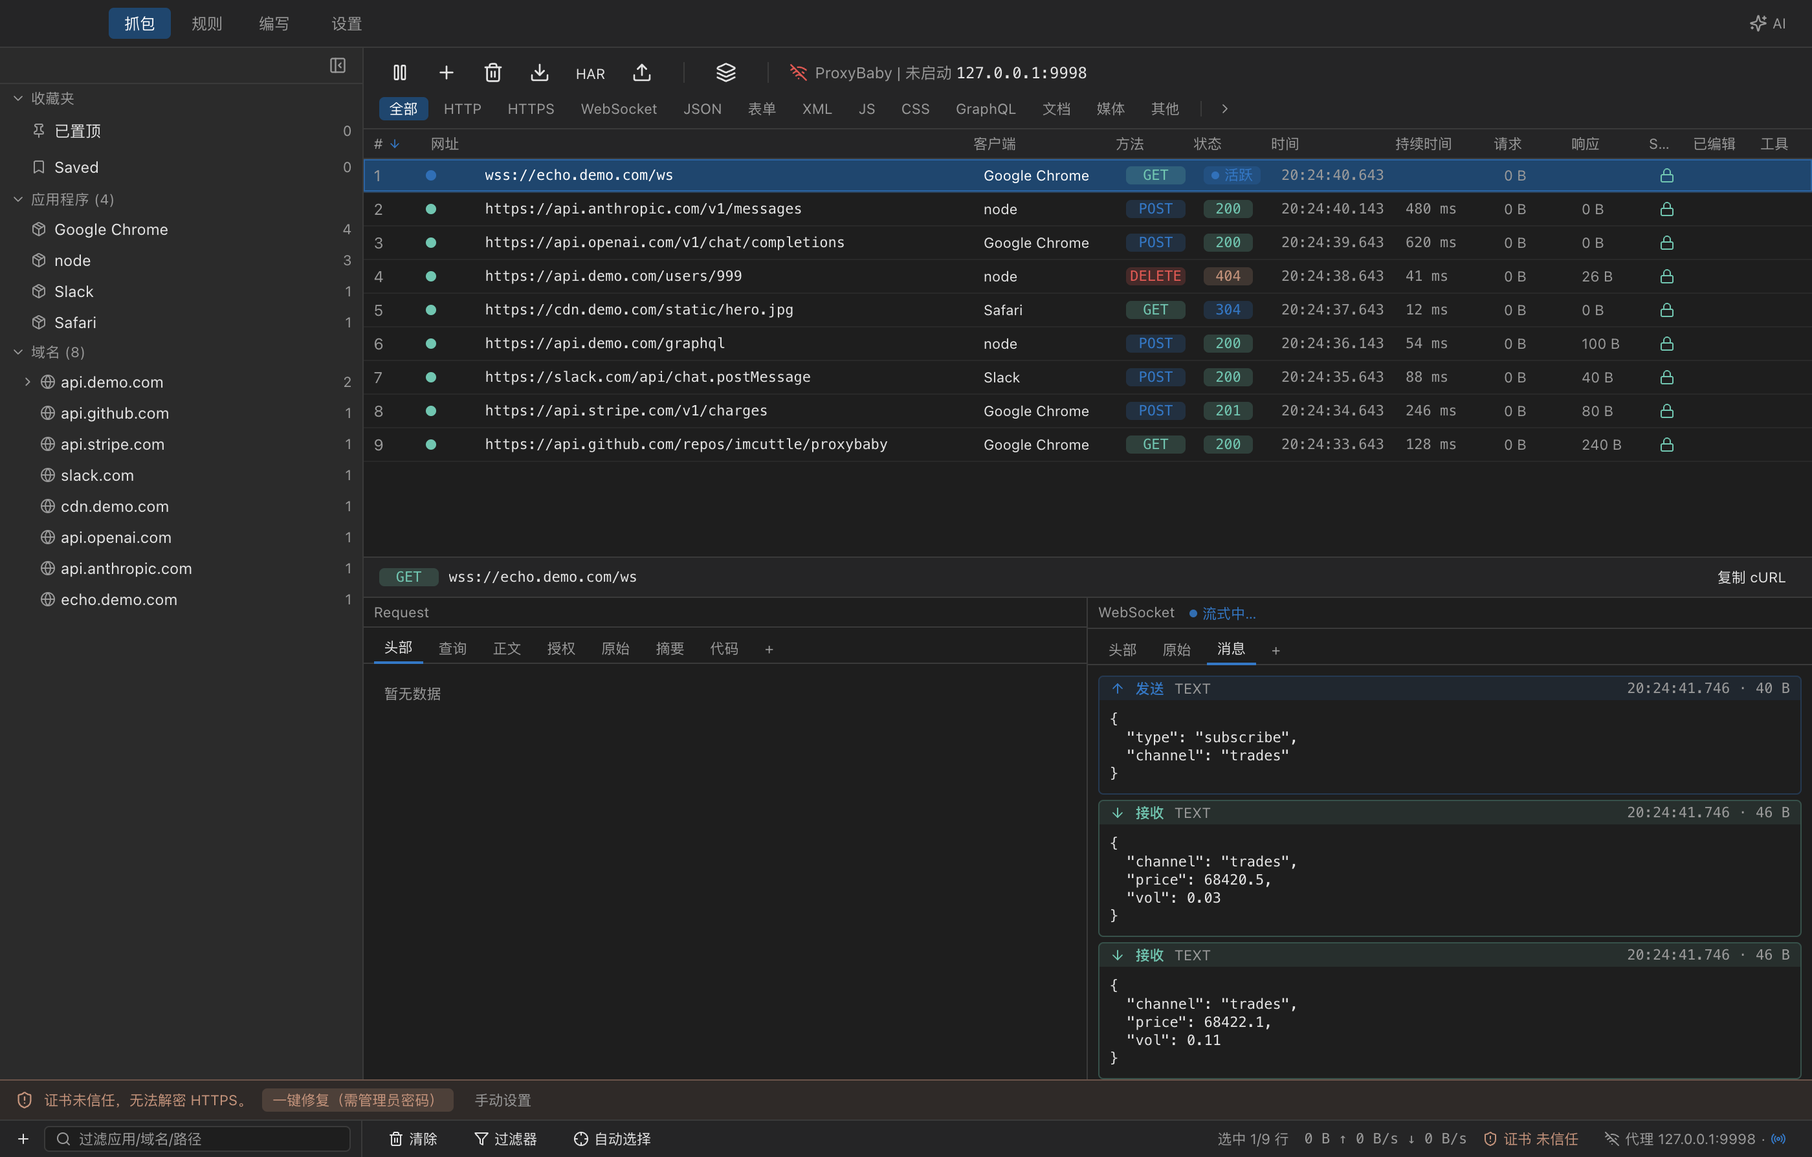
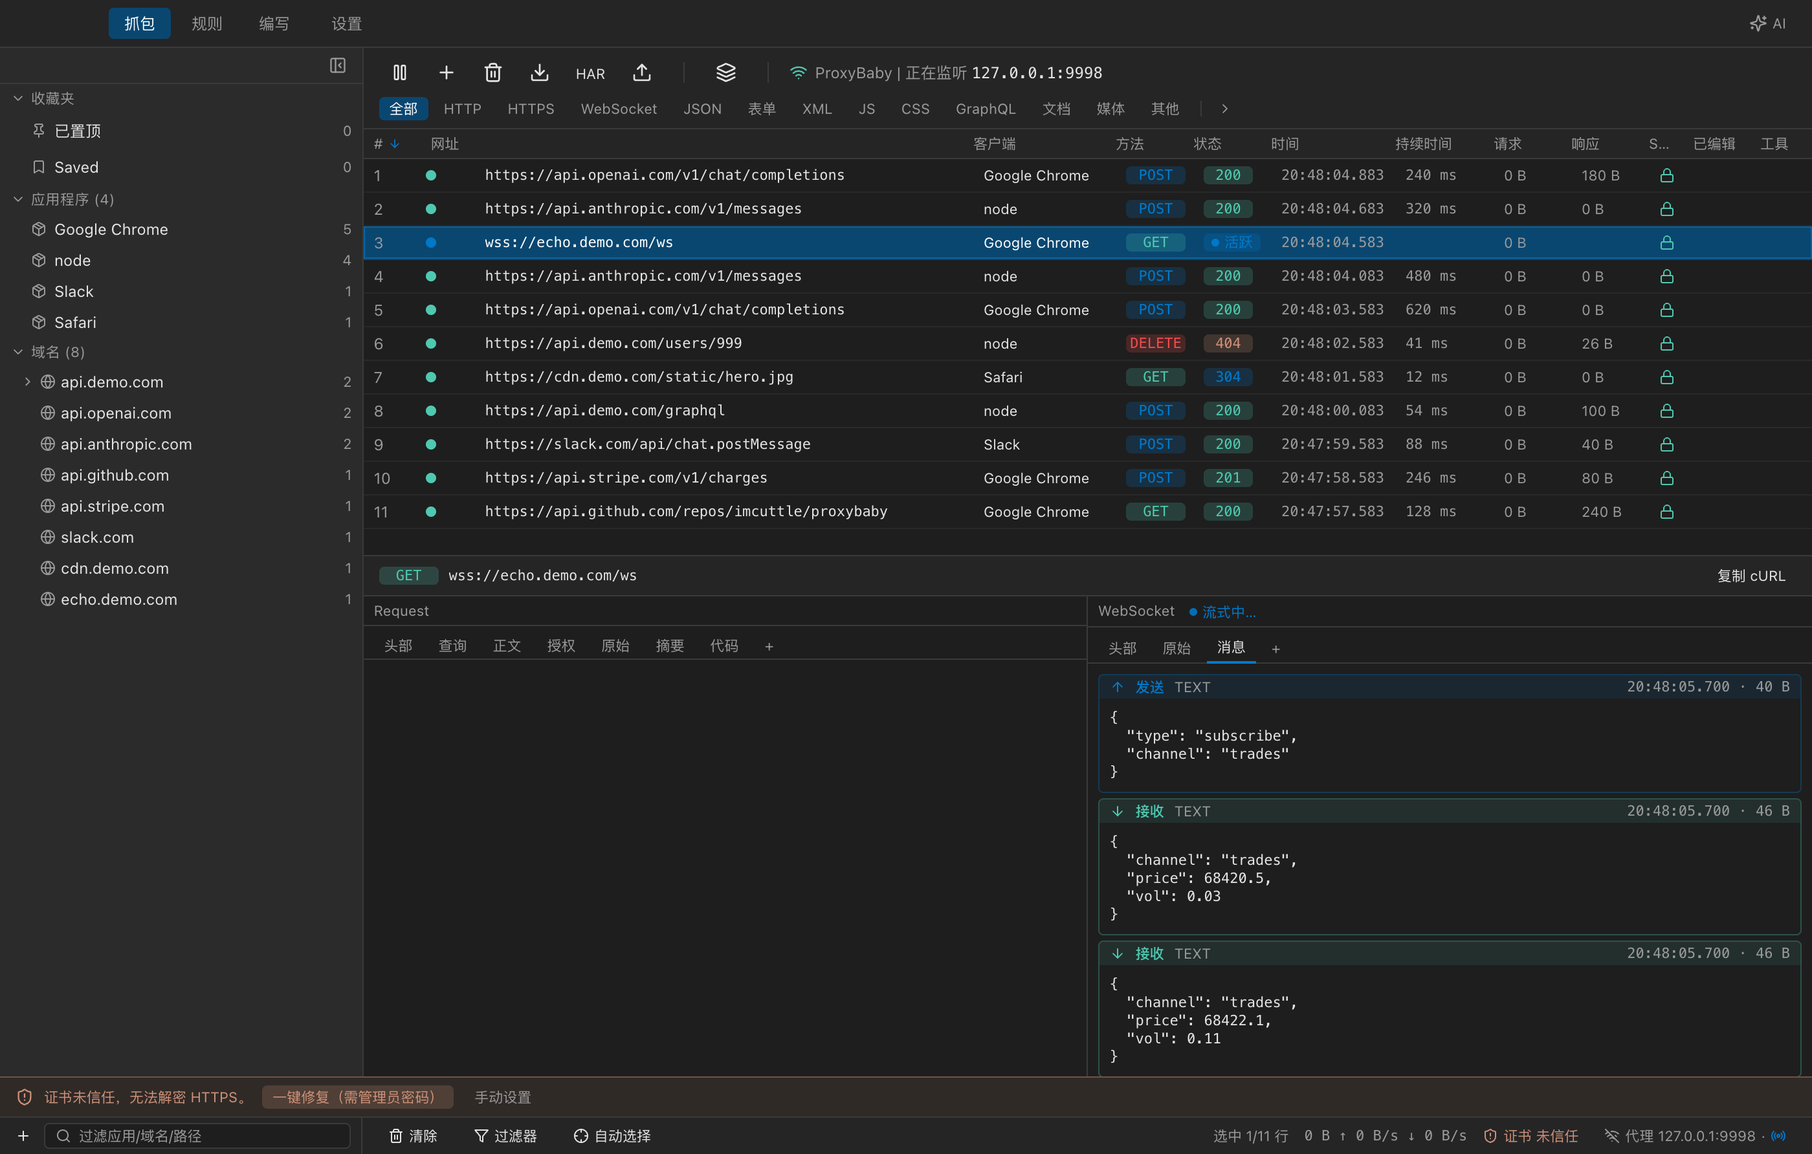
docs(readme): 重新生成截图 —— OpenAI/Anthropic chat 视图正确渲染 + 规则页有内容 + 新增 AI Sessions 截图
- screenshots.e2e.ts:
  - Anthropic 请求补 anthropic-version / x-api-key header 与 tools[].input_schema，让 detectProvider 稳定判为 anthropic
  - Anthropic SSE 帧的 event 字段独立填充（此前 event 都塞在 data 里，parser 拿不到导致响应侧空气泡）
  - 增加 thinking_delta / tool_use 完整帧，展示"思考过程 + 文本 + 工具调用"三块内容
  - OpenAI 与 Anthropic 各再注一条同 session 不同 turn 的 flow，供 AI Sessions 树呈现多轮
  - flows 上带 X-Session-Id / X-Root-Request-Id header
  - 通过 rulesAdd 注入 2 个示例规则集（mock / 本地开发劫持）
  - 切换到规则 tab 后自动点开第一个规则集让编辑器有内容
  - 新增 06-ai-sessions.png：openWindow('ai-session') 后在子窗口截图
- README.md: 图片布局改成 3 行 2 列（新增第 6 张 AI Sessions），更新图注；功能清单里补 AI Sessions 独立窗口说明

diff --git a/tests/e2e/screenshots.e2e.ts b/tests/e2e/screenshots.e2e.ts
@@ -120,12 +120,22 @@ test('inject flows + take screenshots', async () => {
       { event: 'flow:end', payload: { id: 'fx-6', durationMs: 41, status: 'completed' } },
     ],
   );
-  // AI 明星流：OpenAI 流式
+  // AI 明星流：OpenAI 流式（同时带 Session/Turn header 供 AI Sessions 视图聚合）
   await injectFlow(
     {
       id: 'fx-ai', status: 'completed', isTLS: true, sseFrames: [],
       app: { name: 'Google Chrome', pid: 501 },
-      request: { method: 'POST', url: 'https://api.openai.com/v1/chat/completions', host: 'api.openai.com', path: '/v1/chat/completions', scheme: 'https', httpVersion: '2.0', headers: [], bodySize: 0, startedAt: now - 2000, contentType: 'application/json', bodyText: JSON.stringify({ model: 'gpt-4o', stream: true, messages: [{ role: 'system', content: 'You are a helpful assistant.' }, { role: 'user', content: '用一句话解释什么是 MITM 代理' }] }) },
+      request: {
+        method: 'POST', url: 'https://api.openai.com/v1/chat/completions', host: 'api.openai.com',
+        path: '/v1/chat/completions', scheme: 'https', httpVersion: '2.0',
+        headers: [
+          { name: 'Authorization', value: 'Bearer sk-***' },
+          { name: 'X-Session-Id', value: 'sess-chat-openai-001' },
+          { name: 'X-Root-Request-Id', value: 'req-openai-t1' },
+        ],
+        bodySize: 0, startedAt: now - 2000, contentType: 'application/json',
+        bodyText: JSON.stringify({ model: 'gpt-4o', stream: true, messages: [{ role: 'system', content: 'You are a helpful assistant.' }, { role: 'user', content: '用一句话解释什么是 MITM 代理' }] }),
+      },
     },
     [
       { event: 'flow:response-headers', payload: { id: 'fx-ai', response: { status: 200, statusText: 'OK', httpVersion: '2.0', headers: [{ name: 'Content-Type', value: 'text/event-stream' }], bodySize: 0, isSSE: true, contentType: 'text/event-stream' } } },
@@ -134,19 +144,50 @@ test('inject flows + take screenshots', async () => {
       { event: 'flow:end', payload: { id: 'fx-ai', durationMs: 620, status: 'completed' } },
     ],
   );
-  // Anthropic 带 tool_use
+  // Anthropic 带 tool_use（headers 里带 anthropic-version 让 detectProvider 稳定识别）
   await injectFlow(
     {
       id: 'fx-anth', status: 'completed', isTLS: true, sseFrames: [],
       app: { name: 'node', pid: 302 },
-      request: { method: 'POST', url: 'https://api.anthropic.com/v1/messages', host: 'api.anthropic.com', path: '/v1/messages', scheme: 'https', httpVersion: '2.0', headers: [], bodySize: 0, startedAt: now - 1500, contentType: 'application/json', bodyText: JSON.stringify({ model: 'claude-3-5-sonnet', messages: [{ role: 'user', content: '帮我查一下今天北京天气' }] }) },
+      request: {
+        method: 'POST', url: 'https://api.anthropic.com/v1/messages', host: 'api.anthropic.com',
+        path: '/v1/messages', scheme: 'https', httpVersion: '2.0',
+        headers: [
+          { name: 'anthropic-version', value: '2023-06-01' },
+          { name: 'x-api-key', value: 'sk-ant-***' },
+          { name: 'X-Session-Id', value: 'sess-chat-anth-42' },
+          { name: 'X-Root-Request-Id', value: 'req-anth-t1' },
+        ],
+        bodySize: 0, startedAt: now - 1500, contentType: 'application/json',
+        bodyText: JSON.stringify({
+          model: 'claude-3-5-sonnet-20241022',
+          max_tokens: 1024,
+          system: '你是一个乐于助人的中文助手。',
+          tools: [
+            {
+              name: 'get_weather',
+              description: '查询指定城市的当前天气',
+              input_schema: {
+                type: 'object',
+                properties: { city: { type: 'string', description: '城市名称' } },
+                required: ['city'],
+              },
+            },
+          ],
+          messages: [{ role: 'user', content: '帮我查一下今天北京天气' }],
+        }),
+      },
     },
     [
       { event: 'flow:response-headers', payload: { id: 'fx-anth', response: { status: 200, statusText: 'OK', httpVersion: '2.0', headers: [{ name: 'Content-Type', value: 'text/event-stream' }], bodySize: 0, isSSE: true, contentType: 'text/event-stream' } } },
-      { event: 'flow:sse-frame', payload: { id: 'fx-anth', frame: { data: `event: content_block_start\ndata: ${JSON.stringify({ type: 'content_block_start', index: 0, content_block: { type: 'text', text: '' } })}`, raw: '', receivedAt: Date.now() } } },
-      { event: 'flow:sse-frame', payload: { id: 'fx-anth', frame: { data: `event: content_block_delta\ndata: ${JSON.stringify({ type: 'content_block_delta', index: 0, delta: { type: 'text_delta', text: '好的，我调用天气工具查询。' } })}`, raw: '', receivedAt: Date.now() } } },
-      { event: 'flow:sse-frame', payload: { id: 'fx-anth', frame: { data: `event: content_block_start\ndata: ${JSON.stringify({ type: 'content_block_start', index: 1, content_block: { type: 'tool_use', id: 'toolu_1', name: 'get_weather', input: {} } })}`, raw: '', receivedAt: Date.now() } } },
-      { event: 'flow:sse-frame', payload: { id: 'fx-anth', frame: { data: `event: content_block_delta\ndata: ${JSON.stringify({ type: 'content_block_delta', index: 1, delta: { type: 'input_json_delta', partial_json: '{"city":"Beijing"}' } })}`, raw: '', receivedAt: Date.now() } } },
+      { event: 'flow:sse-frame', payload: { id: 'fx-anth', frame: { event: 'message_start', data: JSON.stringify({ type: 'message_start', message: { id: 'msg_01', model: 'claude-3-5-sonnet-20241022', role: 'assistant', content: [], usage: { input_tokens: 78, output_tokens: 0 } } }), raw: '', receivedAt: Date.now() } } },
+      { event: 'flow:sse-frame', payload: { id: 'fx-anth', frame: { event: 'content_block_start', data: JSON.stringify({ type: 'content_block_start', index: 0, content_block: { type: 'thinking', thinking: '' } }), raw: '', receivedAt: Date.now() } } },
+      { event: 'flow:sse-frame', payload: { id: 'fx-anth', frame: { event: 'content_block_delta', data: JSON.stringify({ type: 'content_block_delta', index: 0, delta: { type: 'thinking_delta', thinking: '用户想查北京天气，我需要调用 get_weather 工具。' } }), raw: '', receivedAt: Date.now() } } },
+      { event: 'flow:sse-frame', payload: { id: 'fx-anth', frame: { event: 'content_block_start', data: JSON.stringify({ type: 'content_block_start', index: 1, content_block: { type: 'text', text: '' } }), raw: '', receivedAt: Date.now() } } },
+      { event: 'flow:sse-frame', payload: { id: 'fx-anth', frame: { event: 'content_block_delta', data: JSON.stringify({ type: 'content_block_delta', index: 1, delta: { type: 'text_delta', text: '好的，我调用天气工具帮你查一下北京当前天气。' } }), raw: '', receivedAt: Date.now() } } },
+      { event: 'flow:sse-frame', payload: { id: 'fx-anth', frame: { event: 'content_block_start', data: JSON.stringify({ type: 'content_block_start', index: 2, content_block: { type: 'tool_use', id: 'toolu_01ABC', name: 'get_weather', input: {} } }), raw: '', receivedAt: Date.now() } } },
+      { event: 'flow:sse-frame', payload: { id: 'fx-anth', frame: { event: 'content_block_delta', data: JSON.stringify({ type: 'content_block_delta', index: 2, delta: { type: 'input_json_delta', partial_json: '{"city":"Beijing"}' } }), raw: '', receivedAt: Date.now() } } },
+      { event: 'flow:sse-frame', payload: { id: 'fx-anth', frame: { event: 'message_delta', data: JSON.stringify({ type: 'message_delta', delta: { stop_reason: 'tool_use' }, usage: { output_tokens: 42 } }), raw: '', receivedAt: Date.now() } } },
       { event: 'flow:end', payload: { id: 'fx-anth', durationMs: 480, status: 'completed' } },
     ],
   );
@@ -164,6 +205,113 @@ test('inject flows + take screenshots', async () => {
     ],
   );
 
+  // 同一 Anthropic session 的第二轮：tool_result → 最终回复（供 AI Sessions 树展示多 turn）
+  await injectFlow(
+    {
+      id: 'fx-anth-2', status: 'completed', isTLS: true, sseFrames: [],
+      app: { name: 'node', pid: 302 },
+      request: {
+        method: 'POST', url: 'https://api.anthropic.com/v1/messages', host: 'api.anthropic.com',
+        path: '/v1/messages', scheme: 'https', httpVersion: '2.0',
+        headers: [
+          { name: 'anthropic-version', value: '2023-06-01' },
+          { name: 'x-api-key', value: 'sk-ant-***' },
+          { name: 'X-Session-Id', value: 'sess-chat-anth-42' },
+          { name: 'X-Root-Request-Id', value: 'req-anth-t2' },
+        ],
+        bodySize: 0, startedAt: now - 900, contentType: 'application/json',
+        bodyText: JSON.stringify({
+          model: 'claude-3-5-sonnet-20241022',
+          max_tokens: 1024,
+          system: '你是一个乐于助人的中文助手。',
+          messages: [
+            { role: 'user', content: '帮我查一下今天北京天气' },
+            {
+              role: 'assistant',
+              content: [
+                { type: 'text', text: '好的，我调用天气工具帮你查一下北京当前天气。' },
+                { type: 'tool_use', id: 'toolu_01ABC', name: 'get_weather', input: { city: 'Beijing' } },
+              ],
+            },
+            {
+              role: 'user',
+              content: [
+                { type: 'tool_result', tool_use_id: 'toolu_01ABC', content: '{"city":"Beijing","temp":24,"weather":"晴","humidity":45}' },
+              ],
+            },
+          ],
+        }),
+      },
+    },
+    [
+      { event: 'flow:response-headers', payload: { id: 'fx-anth-2', response: { status: 200, statusText: 'OK', httpVersion: '2.0', headers: [{ name: 'Content-Type', value: 'text/event-stream' }], bodySize: 0, isSSE: true, contentType: 'text/event-stream' } } },
+      { event: 'flow:sse-frame', payload: { id: 'fx-anth-2', frame: { event: 'content_block_start', data: JSON.stringify({ type: 'content_block_start', index: 0, content_block: { type: 'text', text: '' } }), raw: '', receivedAt: Date.now() } } },
+      { event: 'flow:sse-frame', payload: { id: 'fx-anth-2', frame: { event: 'content_block_delta', data: JSON.stringify({ type: 'content_block_delta', index: 0, delta: { type: 'text_delta', text: '北京今天晴，气温 24°C，湿度 45%，是个不错的出行天气。' } }), raw: '', receivedAt: Date.now() } } },
+      { event: 'flow:end', payload: { id: 'fx-anth-2', durationMs: 320, status: 'completed' } },
+    ],
+  );
+
+  // OpenAI 第二轮（同一 session，另一 root）：让 AI Sessions 树上出现 openai session 有 2 轮
+  await injectFlow(
+    {
+      id: 'fx-ai-2', status: 'completed', isTLS: true, sseFrames: [],
+      app: { name: 'Google Chrome', pid: 501 },
+      request: {
+        method: 'POST', url: 'https://api.openai.com/v1/chat/completions', host: 'api.openai.com',
+        path: '/v1/chat/completions', scheme: 'https', httpVersion: '2.0',
+        headers: [
+          { name: 'Authorization', value: 'Bearer sk-***' },
+          { name: 'X-Session-Id', value: 'sess-chat-openai-001' },
+          { name: 'X-Root-Request-Id', value: 'req-openai-t2' },
+        ],
+        bodySize: 0, startedAt: now - 700, contentType: 'application/json',
+        bodyText: JSON.stringify({ model: 'gpt-4o', stream: false, messages: [{ role: 'user', content: '再举一个抓包工具能解决的实际场景' }] }),
+      },
+    },
+    [
+      { event: 'flow:response-headers', payload: { id: 'fx-ai-2', response: { status: 200, statusText: 'OK', httpVersion: '2.0', headers: [{ name: 'Content-Type', value: 'application/json' }], bodySize: 0, isSSE: false, contentType: 'application/json' } } },
+      { event: 'flow:response-body', payload: { id: 'fx-ai-2', bodyText: JSON.stringify({
+        id: 'chatcmpl-2', model: 'gpt-4o',
+        choices: [{ index: 0, message: { role: 'assistant', content: '例如后端接口未就绪时，用 mock 规则先返回假数据，前端可并行开发。' }, finish_reason: 'stop' }],
+        usage: { prompt_tokens: 120, completion_tokens: 34, total_tokens: 154 },
+      }, null, 2), bodySize: 180 } },
+      { event: 'flow:end', payload: { id: 'fx-ai-2', durationMs: 240, status: 'completed' } },
+    ],
+  );
+
+  // 加两条示例 whistle 规则集，让规则页不空
+  await page.evaluate(async () => {
+    const api = (window as any).proxybaby;
+    await api.rulesAdd(
+      '开发环境 · mock',
+      [
+        '# 场景：后端接口未就绪，前端 mock 假数据',
+        'api.demo.com/users/list  mock://{"data":[{"id":1,"name":"Alice"},{"id":2,"name":"Bob"}]}',
+        '',
+        '# 场景：模拟登录态过期',
+        'api.demo.com/user/me     statusCode://401 resBody://{"error":"TOKEN_EXPIRED"}',
+        '',
+        '# 场景：给静态资源加延迟',
+        '*.demo.com/static/*      resDelay://500',
+      ].join('\n'),
+      true,
+    );
+    await api.rulesAdd(
+      '本地开发劫持',
+      [
+        '# 生产域名 → 本地开发',
+        'api.mycompany.com        host://127.0.0.1:3000',
+        '',
+        '# 加日志',
+        'api.mycompany.com/pay    log://pay-trace',
+        '',
+        '# 断点调试',
+        'api.mycompany.com/order  breakpoint://response',
+      ].join('\n'),
+      true,
+    );
+  });
+
   await page.waitForTimeout(600);
 
   // 1. 主界面
@@ -173,17 +321,35 @@ test('inject flows + take screenshots', async () => {
   await page.screenshot({ path: path.join(outDir, '01-main.png') });
   console.log('shot 01-main.png');
 
-  // 2. AI OpenAI
+  // 2. AI OpenAI —— 请求侧 + 响应侧都点开 chat view
   await page.locator('[data-testid="flow-row"][data-flow-id="fx-ai"]').click();
-  await page.getByRole('tab', { name: 'OpenAI' }).click().catch(() => {});
-  await page.waitForTimeout(300);
+  await page.waitForTimeout(200);
+  {
+    // 请求侧 chat
+    const reqTabs = page.getByRole('tab', { name: /openai/i });
+    if (await reqTabs.count()) await reqTabs.first().click().catch(() => {});
+    await page.waitForTimeout(150);
+    // 响应侧 chat（可能有 2 个 OpenAI tab：请求侧 + 响应侧；点第二个）
+    const allTabs = page.getByRole('tab', { name: /openai/i });
+    const cnt = await allTabs.count();
+    if (cnt > 1) await allTabs.nth(cnt - 1).click().catch(() => {});
+  }
+  await page.waitForTimeout(500);
   await page.screenshot({ path: path.join(outDir, '02-ai-openai.png') });
   console.log('shot 02-ai-openai.png');
 
   // 3. AI Anthropic
   await page.locator('[data-testid="flow-row"][data-flow-id="fx-anth"]').click();
-  await page.getByRole('tab', { name: 'Anthropic' }).click().catch(() => {});
-  await page.waitForTimeout(300);
+  await page.waitForTimeout(200);
+  {
+    const reqTabs = page.getByRole('tab', { name: /anthropic/i });
+    if (await reqTabs.count()) await reqTabs.first().click().catch(() => {});
+    await page.waitForTimeout(150);
+    const allTabs = page.getByRole('tab', { name: /anthropic/i });
+    const cnt = await allTabs.count();
+    if (cnt > 1) await allTabs.nth(cnt - 1).click().catch(() => {});
+  }
+  await page.waitForTimeout(500);
   await page.screenshot({ path: path.join(outDir, '03-ai-anthropic.png') });
   console.log('shot 03-ai-anthropic.png');
 
@@ -194,9 +360,54 @@ test('inject flows + take screenshots', async () => {
   await page.screenshot({ path: path.join(outDir, '04-websocket.png') });
   console.log('shot 04-websocket.png');
 
-  // 5. 规则页
+  // 5. 规则页 —— 打开规则 tab 并选中第一个规则集，让编辑器显示内容
   await page.getByRole('button', { name: '规则', exact: true }).click().catch(() => {});
+  await page.waitForTimeout(400);
+  // 点第一个规则集条目（RulesView 里规则集左栏是普通 button，用文本定位）
+  {
+    const item = page.getByText('开发环境 · mock', { exact: false }).first();
+    if (await item.count()) await item.click().catch(() => {});
+  }
   await page.waitForTimeout(500);
   await page.screenshot({ path: path.join(outDir, '05-rules.png') });
   console.log('shot 05-rules.png');
+
+  // 6. AI Sessions 独立子窗口
+  // 先切回抓包页面，再触发主窗口打开 ai-session 子窗口
+  await page.getByRole('button', { name: '抓包', exact: true }).click().catch(() => {});
+  await page.waitForTimeout(200);
+  await page.evaluate(async () => {
+    await (window as any).proxybaby.openWindow('ai-session', {
+      title: 'ProxyBaby · AI Sessions',
+      width: 1200,
+      height: 780,
+    });
+  });
+  // 等新窗口出现
+  let sessionWin: Page | null = null;
+  for (let i = 0; i < 40; i++) {
+    const wins = app.windows();
+    sessionWin = wins.find((w) => w !== page) || null;
+    if (sessionWin) break;
+    await page.waitForTimeout(150);
+  }
+  if (sessionWin) {
+    await sessionWin.waitForLoadState('domcontentloaded');
+    await sessionWin.waitForSelector('[data-testid="ai-session-window"]', { timeout: 8000 }).catch(() => {});
+    await sessionWin.waitForTimeout(600);
+    // 点选一个 request 以填充右侧预览
+    const req = sessionWin.locator('[data-testid="ai-request-row"], [data-testid="request-ref-row"]').first();
+    if (await req.count().catch(() => 0)) {
+      await req.click().catch(() => {});
+    } else {
+      // 兜底：点第一条 turn row
+      const turn = sessionWin.locator('[data-testid="ai-turn-row"]').first();
+      if (await turn.count()) await turn.click().catch(() => {});
+    }
+    await sessionWin.waitForTimeout(500);
+    await sessionWin.screenshot({ path: path.join(outDir, '06-ai-sessions.png') });
+    console.log('shot 06-ai-sessions.png');
+  } else {
+    console.log('⚠  AI Sessions window did not appear; skipping 06-ai-sessions.png');
+  }
 });

diff --git a/README.md b/README.md
@@ -52,13 +52,13 @@
 <img src="docs/screenshots/01-main.png" />
 </td>
 <td width="50%">
-<b>AI 会话美化（OpenAI）</b><br/>
+<b>AI 会话美化（OpenAI）· 请求 ↔ 响应 分栏</b><br/>
 <img src="docs/screenshots/02-ai-openai.png" />
 </td>
 </tr>
 <tr>
 <td width="50%">
-<b>AI 会话美化（Anthropic + tool_use）</b><br/>
+<b>AI 会话美化（Anthropic + thinking + tool_use）</b><br/>
 <img src="docs/screenshots/03-ai-anthropic.png" />
 </td>
 <td width="50%">
@@ -67,9 +67,13 @@
 </td>
 </tr>
 <tr>
-<td colspan="2">
+<td width="50%">
 <b>whistle 规则编辑器</b><br/>
 <img src="docs/screenshots/05-rules.png" />
+</td>
+<td width="50%">
+<b>AI Sessions —— Session/Turn/Request 三级视图</b><br/>
+<img src="docs/screenshots/06-ai-sessions.png" />
 </td>
 </tr>
 </table>
@@ -138,7 +142,7 @@
 
 **UI**：三栏布局 + 虚拟滚动几万条不卡 · 侧栏按 App/Host+subpath 树状分组 · Pin/Save 独立视图 · 高级过滤器（多条件 AND + 预设） · 详情面板 JSON Tree/Hex/Form/Multipart/GraphQL/Image 多格式 · Monaco 编辑器 · 大文本懒渲染 · 复制 cURL
 
-**AI 会话美化**（核心差异）：OpenAI `chat/completions` · Anthropic `v1/messages`（`tool_use`/`thinking`） · ACP · 角色分色气泡 · 工具调用可视化 · 打字机式流式渲染 · 内嵌 AI 侧边栏（跑 `codebuddy --acp`）
+**AI 会话美化**（核心差异）：OpenAI `chat/completions` · Anthropic `v1/messages`（`tool_use`/`thinking`） · ACP · 角色分色气泡 · 工具调用可视化 · 打字机式流式渲染 · 内嵌 AI 侧边栏（跑 `codebuddy --acp`） · **AI Sessions 独立窗口** —— 按 `X-Session-Id` + `X-Root-Request-Id` 请求头把多轮请求聚合成 Session → Turn → Request 三级视图，跨窗口选中联动主列表
 
 **规则改写**：洋葱式中间件（`respond` 短路 / `abort` 中断） · 100% whistle 兼容 · 18+ 操作符：`statusCode` `redirect` `abort` `reqHeaders` `resHeaders` `reqBody` `resBody` `host` `file` `mock` `reqDelay` `resDelay` `log` `ua` `referer` `script` `breakpoint` · 多规则集 · **侧栏右键快速规则**（一键 abort/CORS/mapLocal/mapRemote/mock/statusCode/resDelay/resBody，自动写入独立"临时规则"sub-tab，单条可开关、可清空） · 插件系统（whistle-rules / mock / logger / breakpoint / allow-block / ssl-list / scripts）
 
